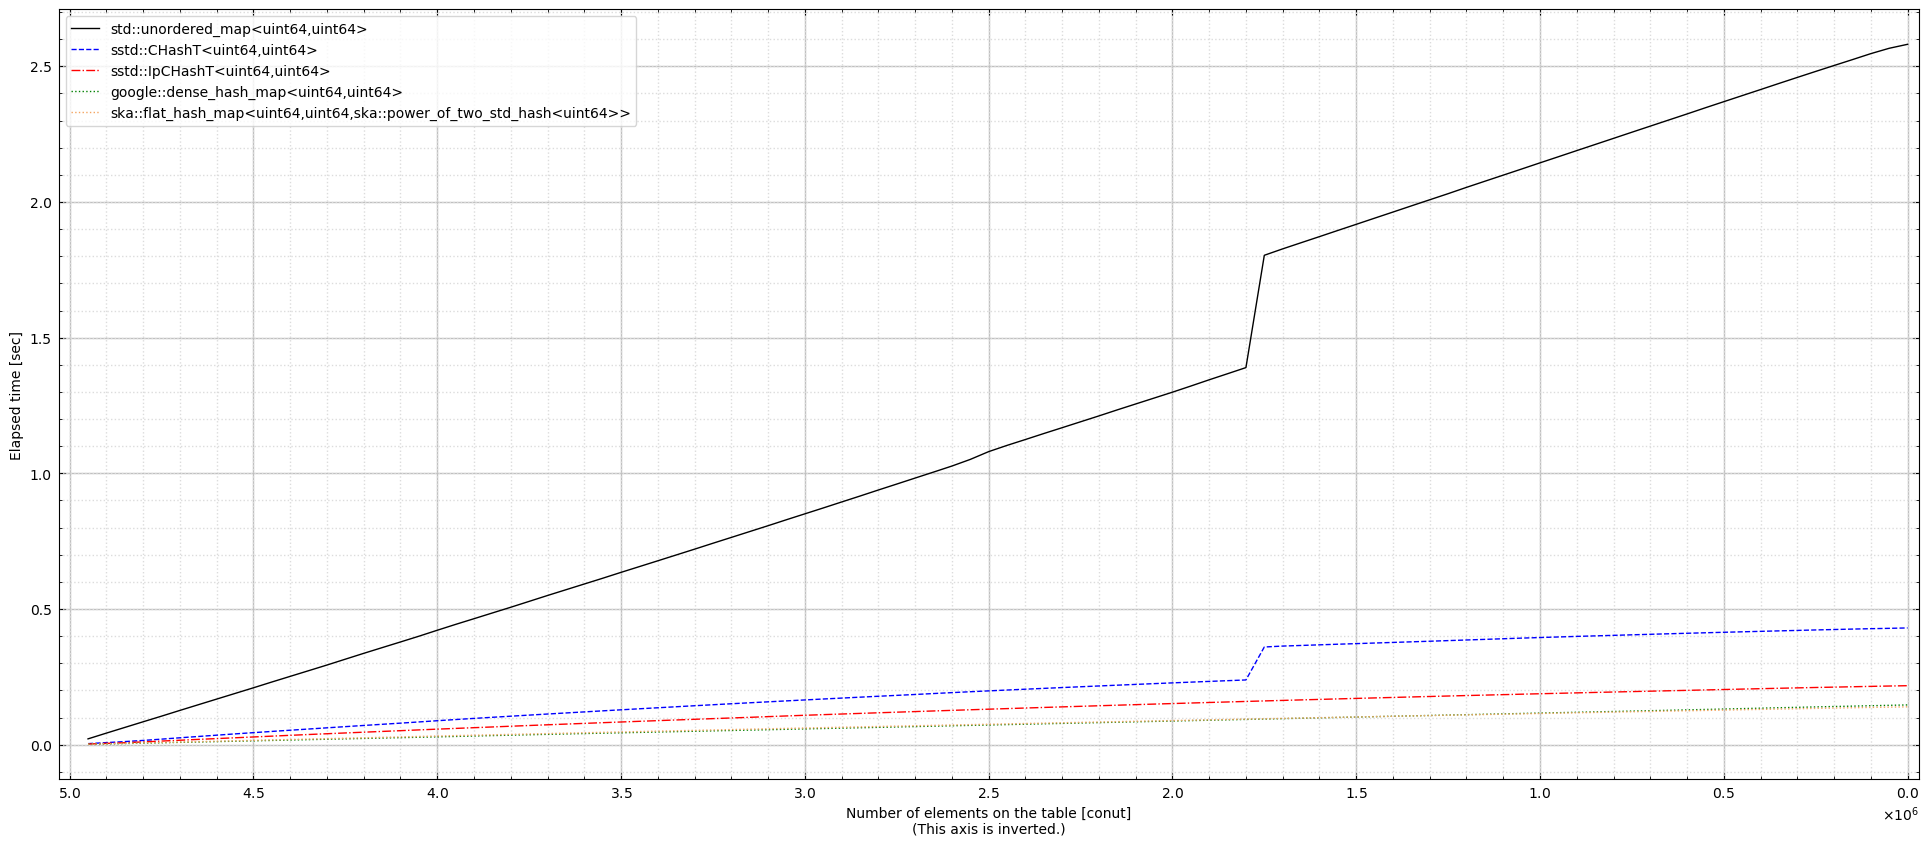
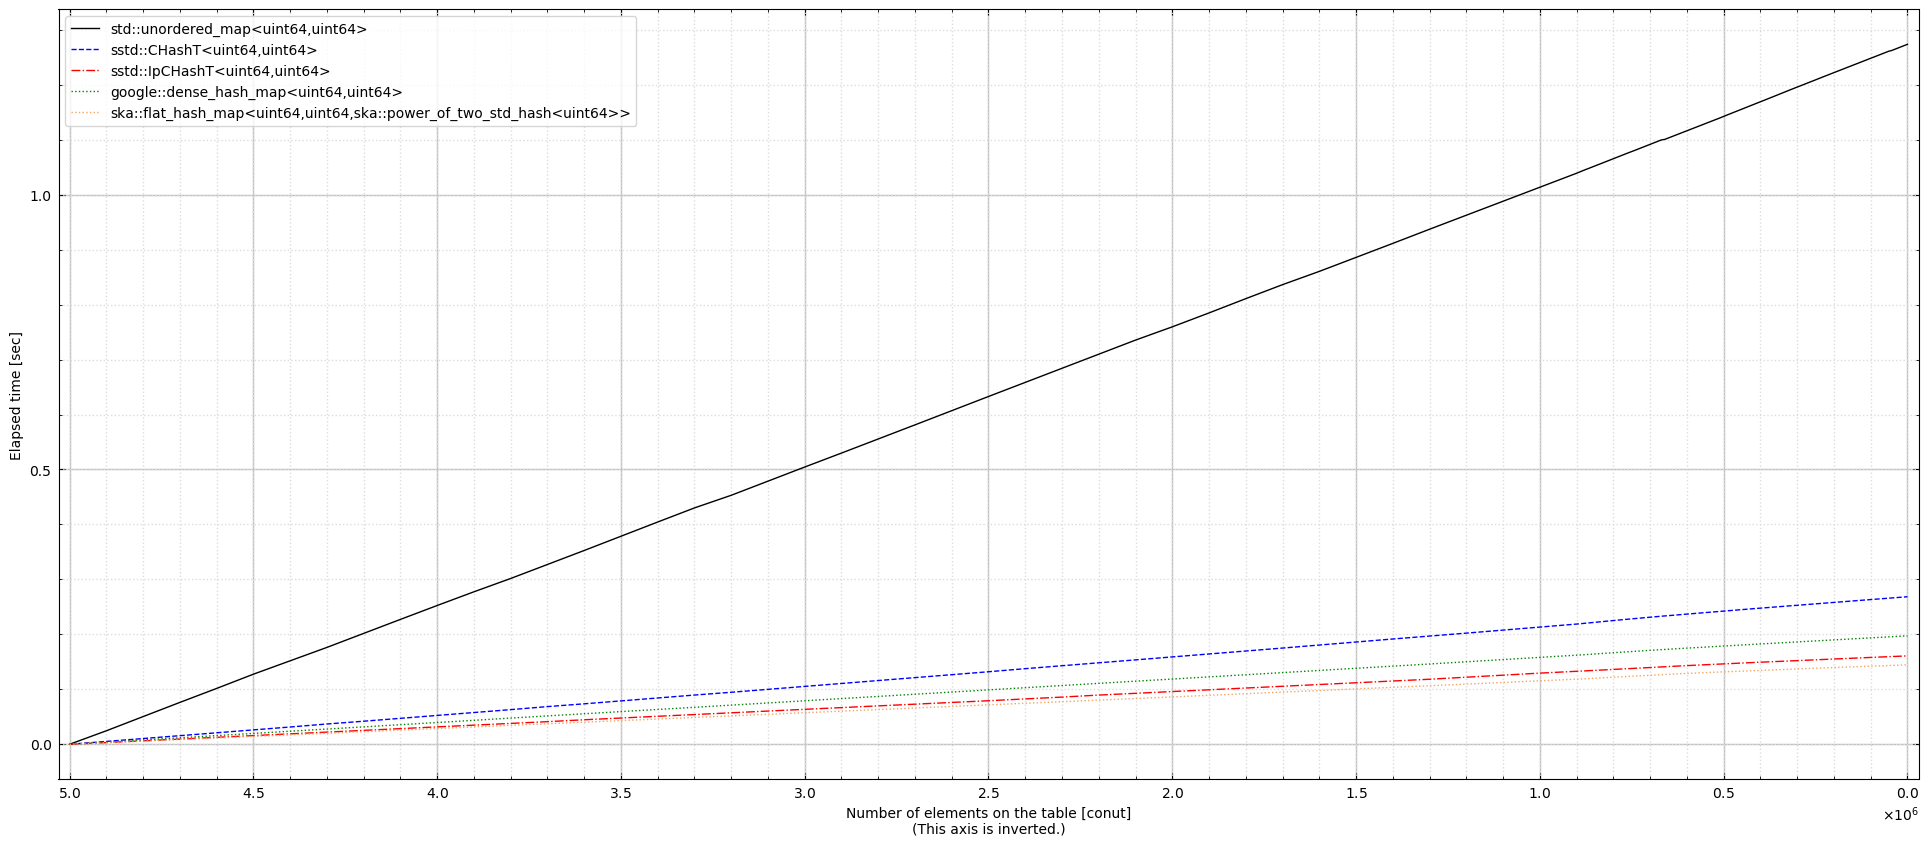
modify bench_erase

diff --git a/bench.hpp b/bench.hpp
@@ -729,7 +729,6 @@ void bench_erase(T_hashTable& hashT, const uint64 limitSize, std::vector<double>
 	
 	std::random_device seed_gen;
 	std::mt19937_64 rand(seed_gen()); // pseudo random number generator
-	std::mt19937_64 engine(seed_gen()); // for std::shuffle()
 	
 	// add elements to the num of limitSize
 	while(hashT.size()<limitSize){
@@ -738,18 +737,14 @@ void bench_erase(T_hashTable& hashT, const uint64 limitSize, std::vector<double>
 		vecKeyVal <<= r;
 	}
 	
+	std::mt19937_64 engine(seed_gen()); // for std::shuffle()
+	std::shuffle(vecKeyVal.begin(), vecKeyVal.end(), engine);
+	
 	uint64 interval = 1;
 	for(;;){
-//		uint8 order = (uint8)std::log10((double)hashT.size());
 		uint8 order = (uint8)std::log10((double)vecKeyVal.size());
 		interval = (uint64)std::pow(10, order);
 		if(interval!=1){interval/=10;}
-//		sstd::printn(interval);
-//		sstd::printn(vecKeyVal.size());
-//		sstd::printn(hashT.size());
-		
-		double numBuf = vecKeyVal.size();
-		// hash.size() はテーブルサイズとして振る舞っており，テーブル上の要素数は bucket_count か何かだと思う．たぶん．
 		
 		// erase
 		time_m timem; sstd::measureTime_start(timem);
@@ -760,7 +755,7 @@ void bench_erase(T_hashTable& hashT, const uint64 limitSize, std::vector<double>
 		}
 		double nsec = sstd::measureTime_stop_ns(timem);
 		vecY_quely_per_ms <<= ((double)interval * 1000.0) / (nsec);
-		vecX_num          <<= numBuf;
+		vecX_num          <<= vecKeyVal.size();
 		if(vecKeyVal.size()==0ull){ break; }
 		
 		std::shuffle(vecKeyVal.begin(), vecKeyVal.end(), engine);
@@ -776,7 +771,7 @@ void bench_plot_erase(const char* savePath, const uint64 initSize, const uint64 
 		                                                     bench_erase(hashT, limitSize, vecX_d, vecY_d); }
 	{ ska::flat_hash_map<uint64,uint64,ska::power_of_two_std_hash<uint64>> hashT(initSize);
 		                                                     bench_erase(hashT, limitSize, vecX_f, vecY_f); } // this meen that 'NULL' will not be able to insert as a key-value.
-	
+
 	// plot2fig
 	const char* tmpDir   = "./tmpDir";
 	const char* fileName = "plot";
@@ -808,29 +803,33 @@ void bench_erase_et(T_hashTable& hashT, const uint64 limitSize, std::vector<doub
 		hashT[r] = r;
 		vecKeyVal <<= r;
 	}
+	vecY_s   <<= 0.0;
+	vecX_num <<= vecKeyVal.size();
 	
 	// shuffle "vecKeyVal"
 	std::mt19937_64 engine(seed_gen()); // for std::shuffle()
 	std::shuffle(vecKeyVal.begin(), vecKeyVal.end(), engine);
 	
-	uint64 splitNum  = 100;
-	uint64 interval  = limitSize/splitNum;
-	
-	time_m timem;
-	sstd::measureTime_start(timem);
-	
-	uint64 eraseElemNum=0; // erasion element number
-	for(uint sn=0; sn<splitNum; sn++){
+	double sec_sum = 0.0;
+	uint64 interval = 1;
+	for(;;){
+		uint8 order = (uint8)std::log10((double)vecKeyVal.size());
+		interval = (uint64)std::pow(10, order);
+		if(interval!=1){interval/=10;}
+		
 		// erase
-		for(uint i=0; i<interval; i++){
-			hashT.erase( vecKeyVal[eraseElemNum] );
-			eraseElemNum++;
+		time_m timem; sstd::measureTime_start(timem);
+		for(uint i=0; i<interval && vecKeyVal.size()!=0; i++){
+			uint64 r = vecKeyVal[vecKeyVal.size()-1];
+			vecKeyVal.pop_back();
+			hashT[r] = r;
 		}
+		sec_sum += sstd::measureTime_stop_ms(timem) / 1000.0;
+		vecY_s   <<= sec_sum;
+		vecX_num <<= vecKeyVal.size();
+		if(vecKeyVal.size()==0ull){ break; }
 		
-		vecX_num <<= hashT.size();
-		
-		double sec = sstd::measureTime_stop_ms(timem) / 1000.0;
-		vecY_s <<= sec;
+		std::shuffle(vecKeyVal.begin(), vecKeyVal.end(), engine);
 	}
 }
 void bench_plot_erase_et(const char* savePath, const uint64 initSize, const uint64 limitSize){
@@ -945,7 +944,7 @@ void RUN_ALL_BENCHS(){
 	bench_plot_erase("./bench_erase_preAlloc.png", initSize_preAlloc, limitSize); // pre-allocate
 	
 	bench_plot_erase_et("./bench_erase_et.png",    initSize_preAlloc, limitSize*1); // pre-allocate
-	bench_plot_erase_et("./bench_erase_et_x2.png", initSize_preAlloc, limitSize*2); // pre-allocate
+//	bench_plot_erase_et("./bench_erase_et_x2.png", initSize_preAlloc, limitSize*2); // pre-allocate
 	/*
 	// find -> erase -> add (reHash occurd)
 	bench_plot_find_erase_add("./bench_find_erase_add_pow10_4.png", 10000  ); // find with erasion
